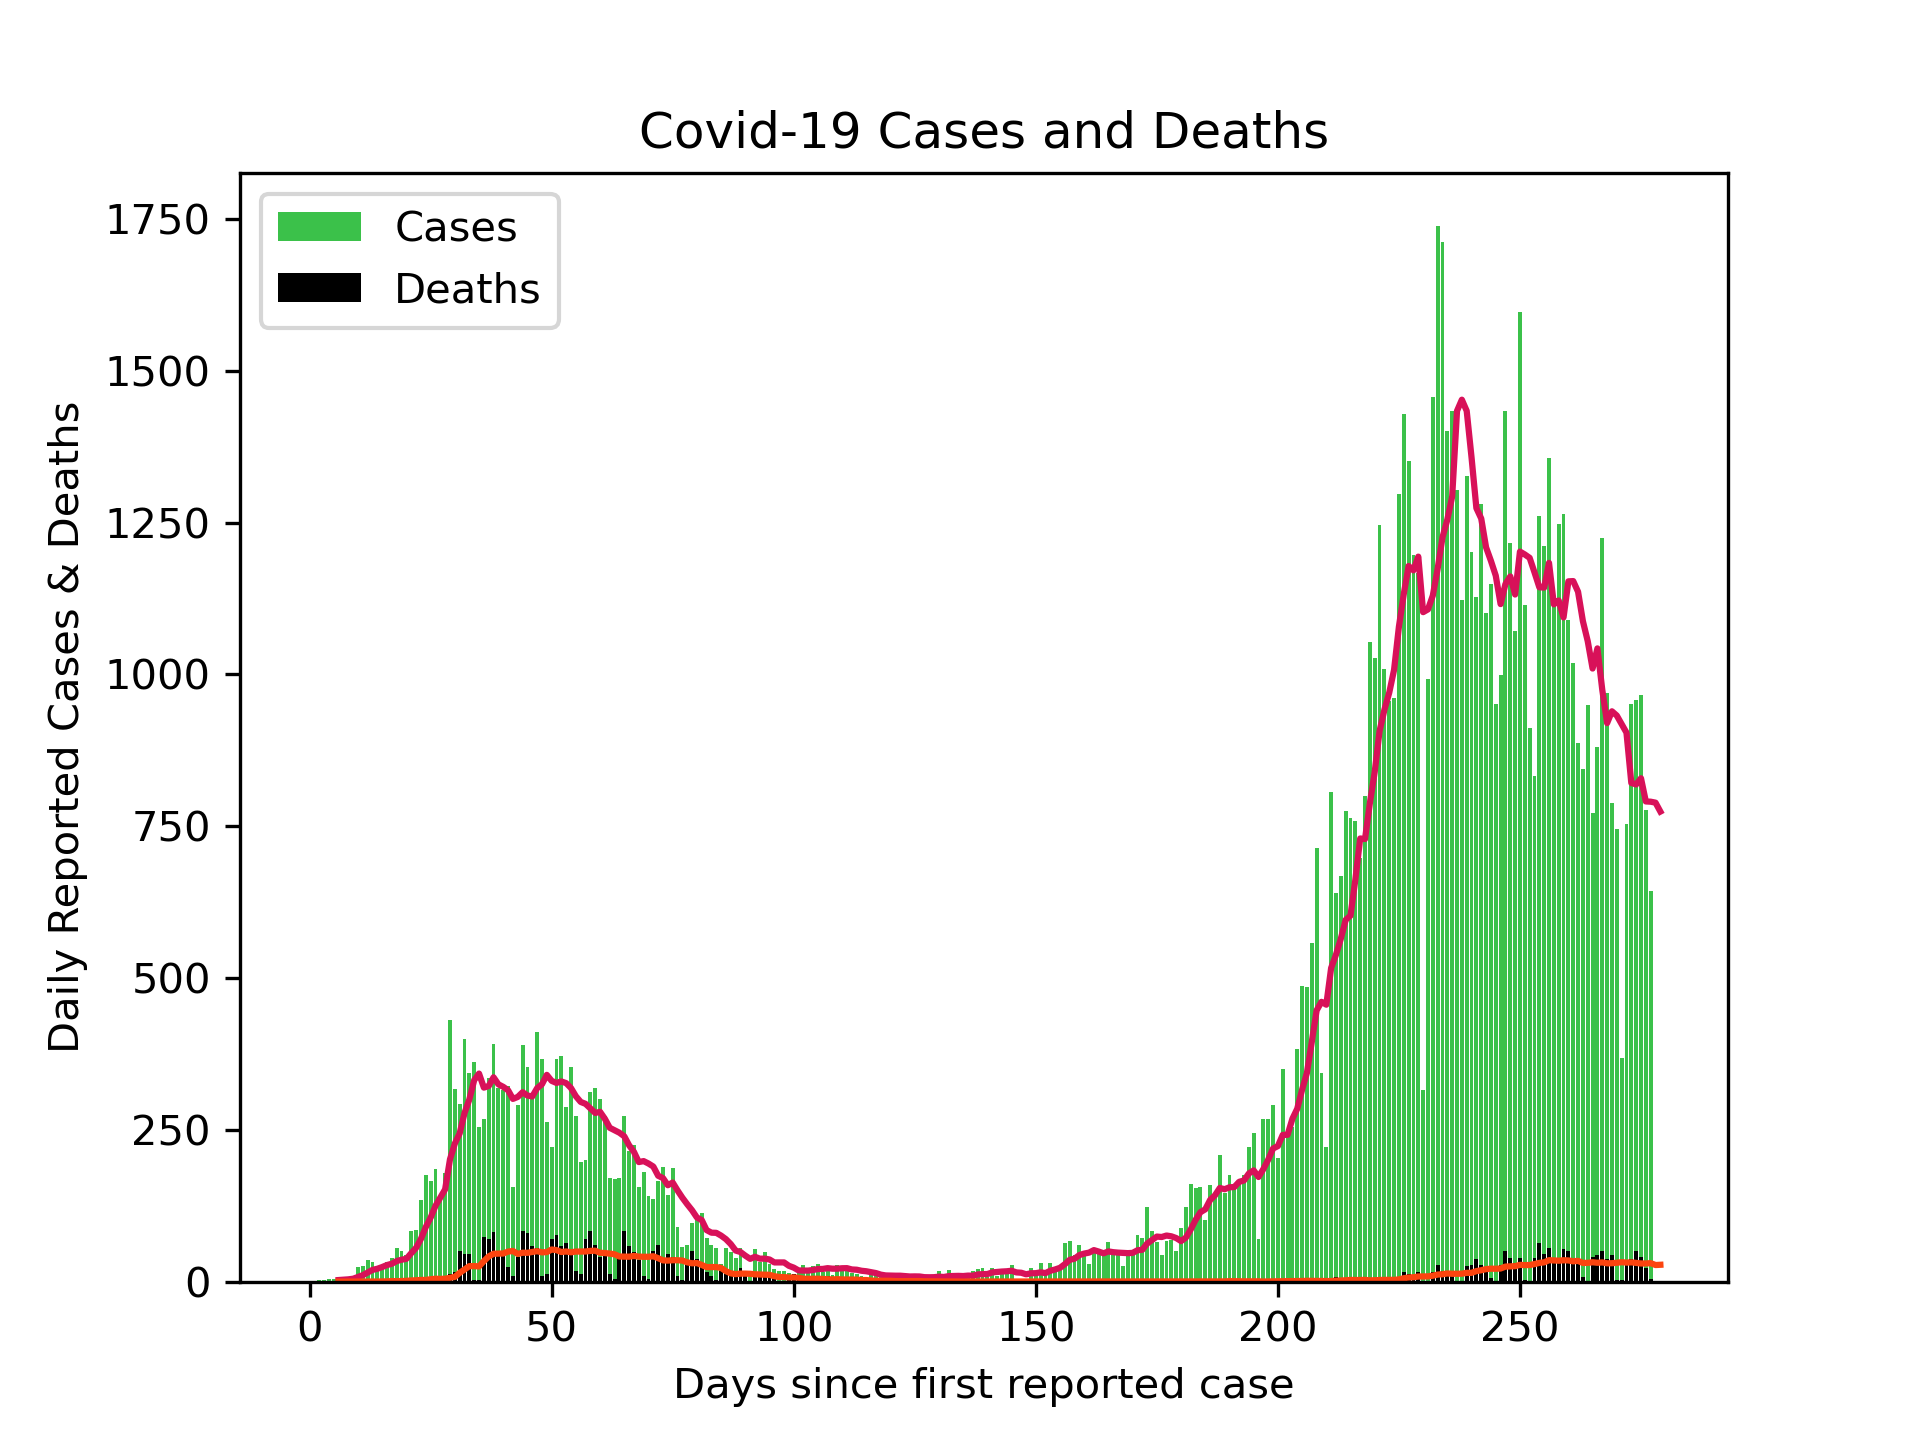
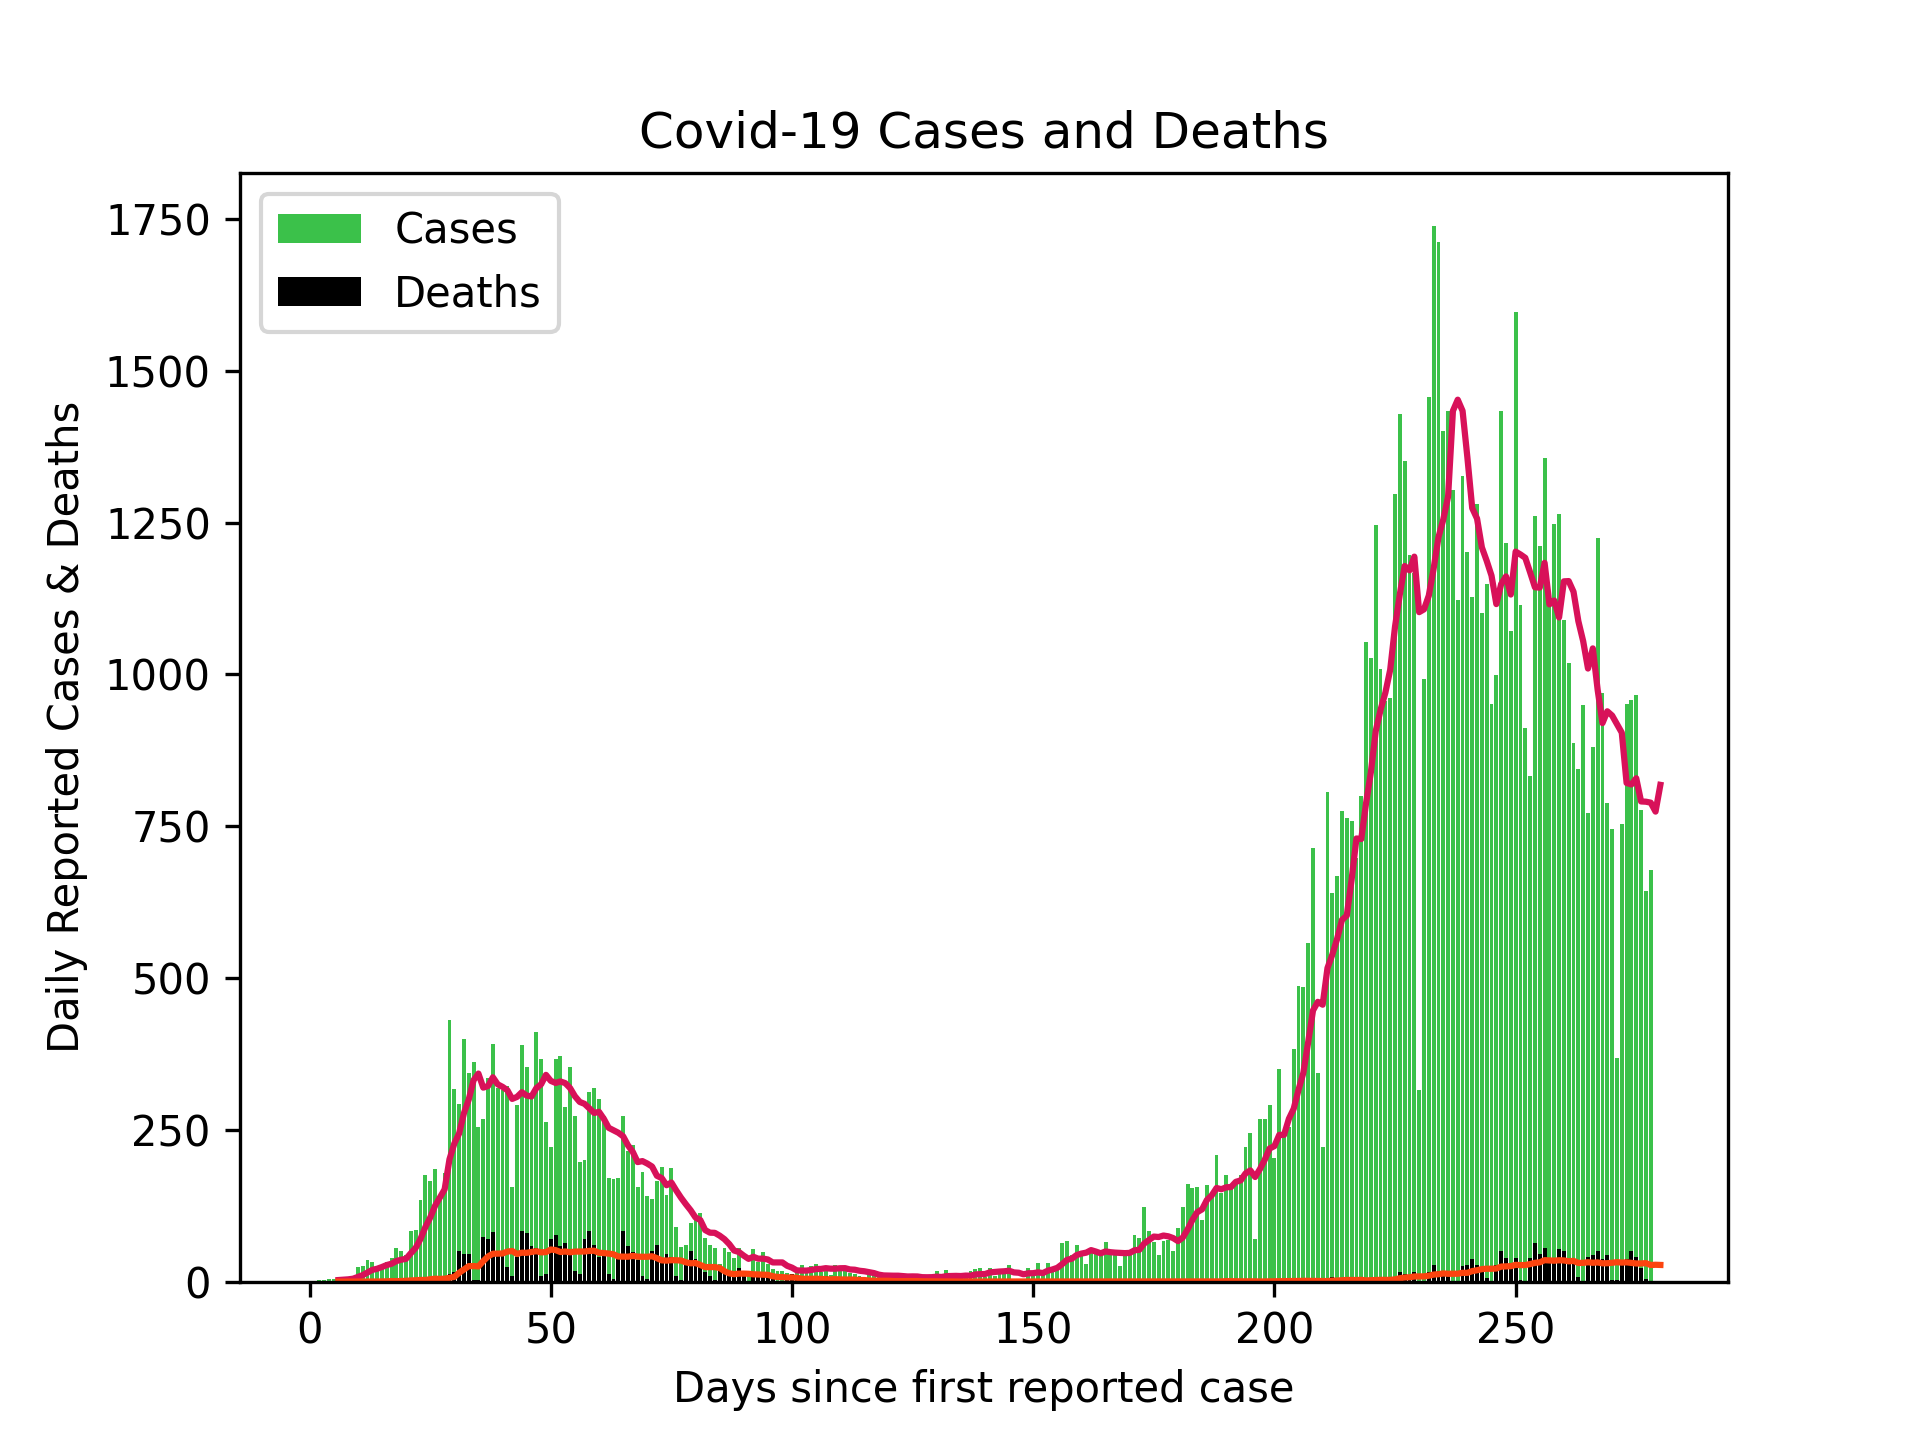
Updated Scottish cases 07/12/20

Changed region(s): [[0.2188, 0.2188, 0.875, 1.0], [0.125, 0.1562, 0.2812, 0.25], [0.0625, 0.3438, 0.0938, 0.375]]

diff --git a/README.md b/README.md
@@ -1,3 +1,3 @@
-# Scottish Cases 06/12/20
+# Scottish Cases 07/12/20
 ![alt](scottish_cases.png)
 
